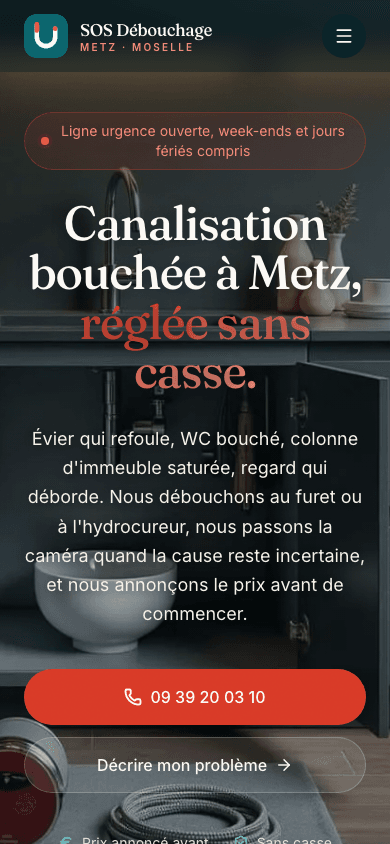
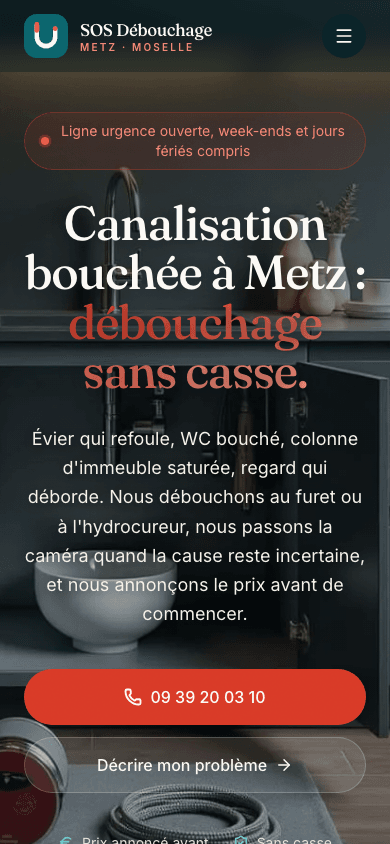
Captures du nouveau titre et journal de bord

Changed region(s): [[0.0615, 0.2773, 0.9538, 0.4621], [0.0923, 0.154, 0.1231, 0.1848], [0.0615, 0.9242, 0.0923, 0.955]]

diff --git a/docs/ETAT.md b/docs/ETAT.md
@@ -409,3 +409,19 @@ ce site :**
   (proposition soumise, non appliquée sans son accord).
   **Fiche Rank OS** poussée : notes réécrites, `dates.autoblogEndsAt` au 15/12/2026, entrée
   `travaux` datée, cadence relevée à 5 par semaine. Protection des aperçus Vercel remise.
+- **20/09/2026 (CEO du site, titre du bloc 1)** : sur GO de Rémy, le H1 de l'accueil passe de
+  « Canalisation bouchée à Metz, réglée sans casse. » à « Canalisation bouchée à Metz :
+  débouchage sans casse. ». Motif : le contrôle de ciblage de `check-fin-de-site.py` exige la
+  requête d'argent du site (« débouchage canalisation Metz ») dans le title ET dans le H1 de
+  l'accueil, et le mot « débouchage » y manquait. Les retours à la ligne forcés du titre ne
+  valent plus que sur téléphone (`<br className="lg:hidden" />`, 4 lignes) : sur ordinateur le
+  titre coule seul en 3 lignes, comme avant, ce que vérifie `audit-design`. Les espaces
+  explicites `{' '}` corrigent un défaut ancien du gabarit : sans eux le texte se colle dès que
+  le retour est masqué, et les contrôles lisaient « Canalisationbouchée à Metz ».
+  **`check-fin-de-site.py` ne compte plus qu'UN défaut** : le test de bout en bout du formulaire
+  vers `contact@sos-debouchage-metz.fr`, qui est un geste de Rémy. Série des 5 contrôles au
+  commit `92e8339` : navigation, blocs-pages et visuels-articles CODE 0 ; design et footprint
+  rouges à l'identique de l'état d'avant chantier (bloc 1 ordinateur validé par Rémy, et
+  gabarit commun aux 5 sites frères).
+  Plan des sites et page d'indexation mis à jour : le site est le 14e du plan avec ses 5 cases
+  cochées, et ses 15 pages sont en tête de la file d'indexation.
